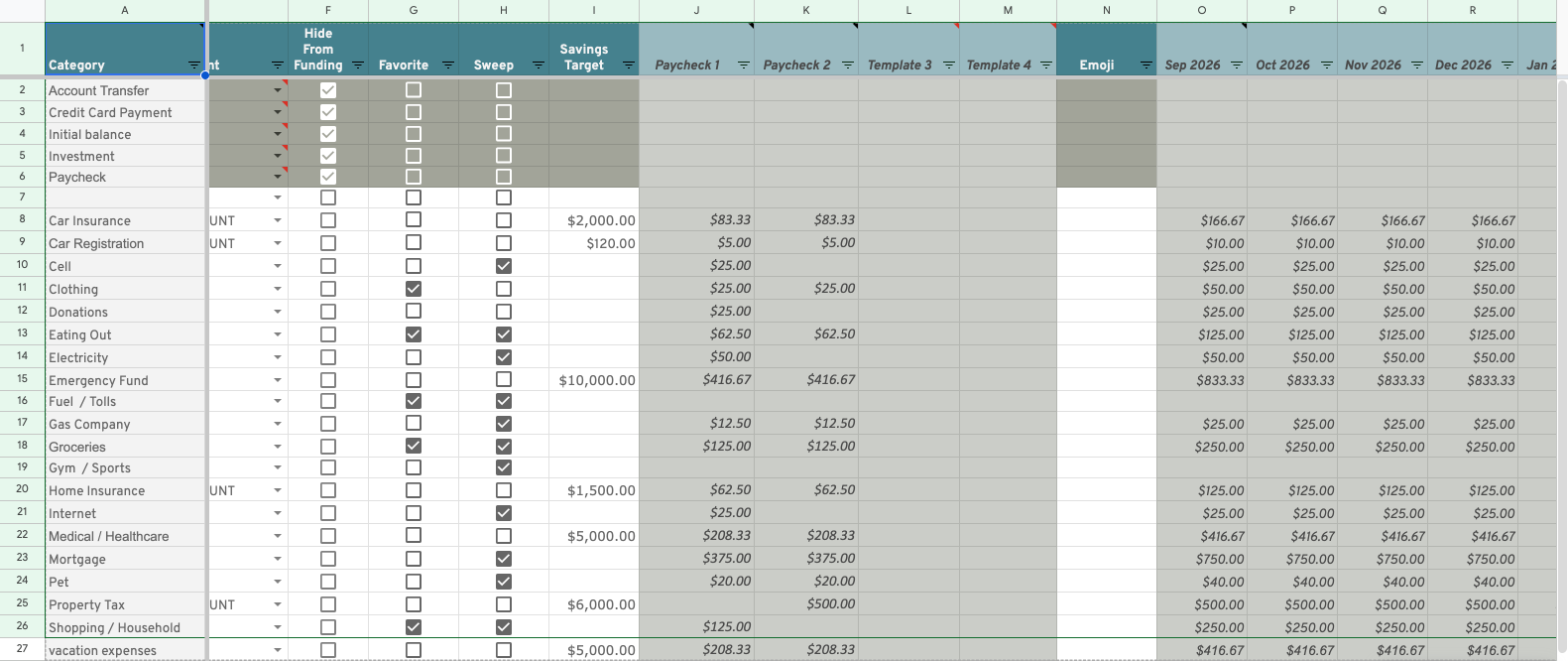
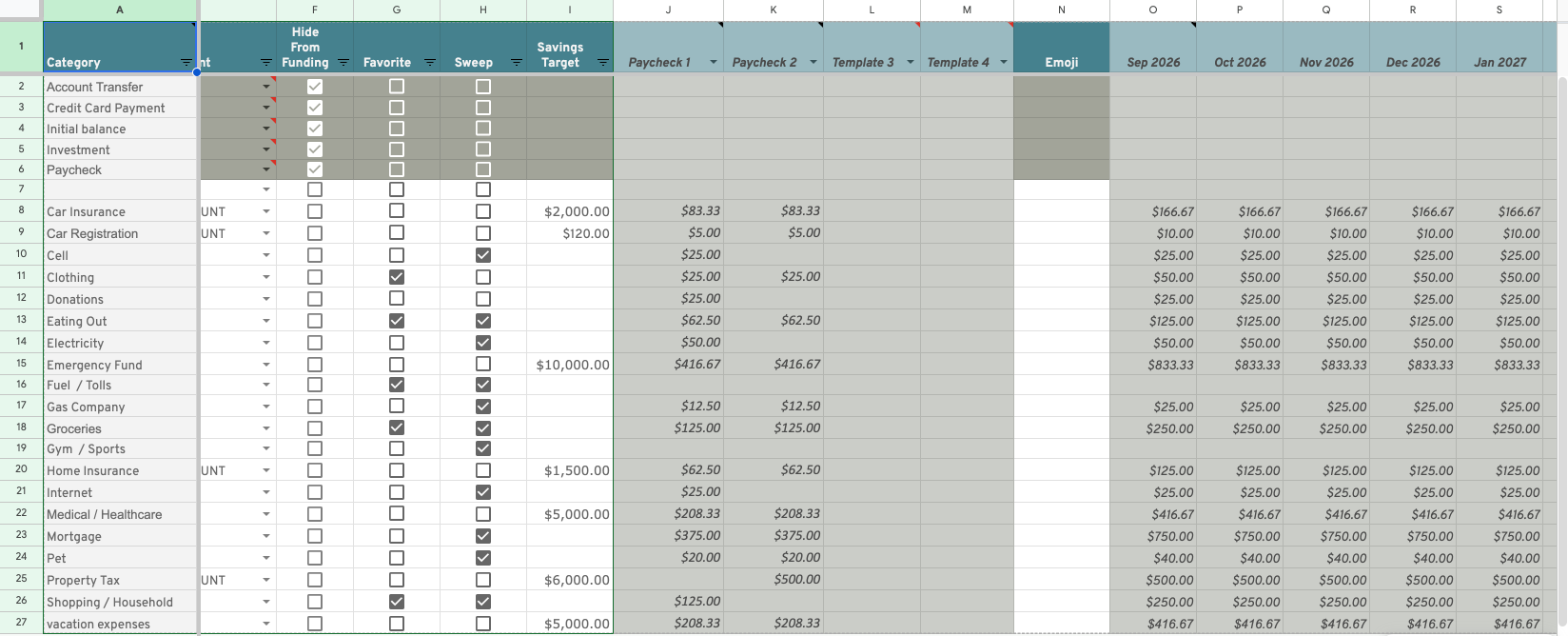
Docs: Categories screenshot with template header dropdowns

diff --git a/ue26/budget-tools.md b/ue26/budget-tools.md
@@ -22,7 +22,7 @@ Everything lives on one new tab, **Budget History**, and you edit it from the **
 
 Everything else in Categories is still yours to edit: Category, Group, Type, Funding Account, Hide From Reports, Hide From Funding, Favorite, Sweep, Savings Target, and Emoji.
 
-{% include figure image_path="/assets/images/sheet-categories-read-only.png" alt="Categories sheet after migrating: the template columns, Paycheck 1 through Template 4, and the monthly budget columns, Sep 2026 onward, are shaded" caption="After migrating, the template and monthly budget columns are shaded and fill in automatically" %}
+{% include figure image_path="/assets/images/sheet-categories-read-only.png" alt="Categories sheet after migrating: filter buttons on Category through Savings Target, dropdown arrows on the Paycheck 1 to Template 4 headers, and the template and Sep 2026 onward budget columns shaded" caption="After migrating, the template and monthly budget columns are shaded and fill in automatically. Each template header is a dropdown" %}
 
 ---
 
